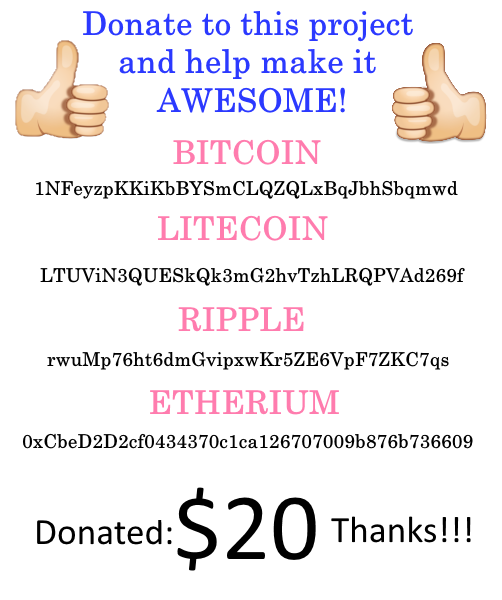
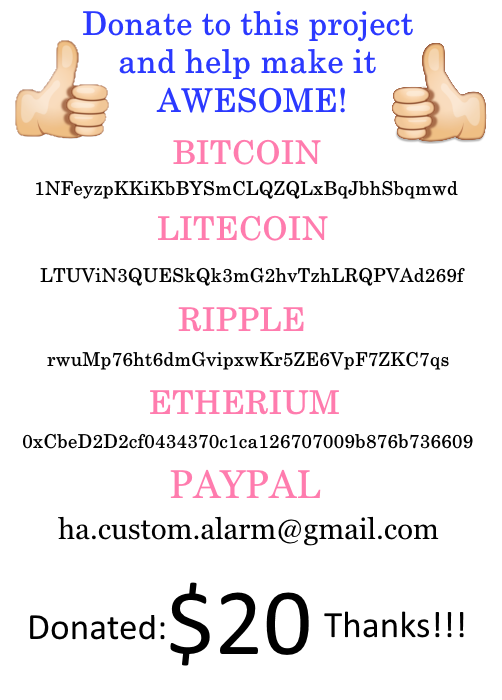
See Readme

Changed region(s): [[0.0299, 0.0, 0.9861, 0.78], [0.0598, 0.81, 0.9562, 0.96]]

diff --git a/README.md b/README.md
@@ -1,6 +1,6 @@
 # Home Assistant - Custom Alarm Interface!
 ## Intro :-)
-<img align="right" width="376.5" height="450" src="https://github.com/gazoscalvertos/Hass-Custom-Alarm/blob/master/BTC.png">
+<img align="right" width="376.5" height="525" src="https://github.com/gazoscalvertos/Hass-Custom-Alarm/blob/master/BTC.png">
 
 Welcome my fellow modders, tinkerers, home assistant wizards!!
 
@@ -122,6 +122,7 @@ Consider supporting this project and donate! All funds will go towards bringing 
 - LTC Address: LTUViN3QUESkQk3mG2hvTzhLRQPVAd269f
 - XRP Address: rwuMp76ht6dmGvipxwKr5ZE6VpF7ZKC7qs
 - ETH Address: 0xCbeD2D2cf0434370c1ca126707009b876b736609
+- Paypal: ha.custom.alarm@gmail.com
 
 ## Credits
 [A great countdown JS that I have slightly modded](https://github.com/johnschult/jquery.countdown360)
